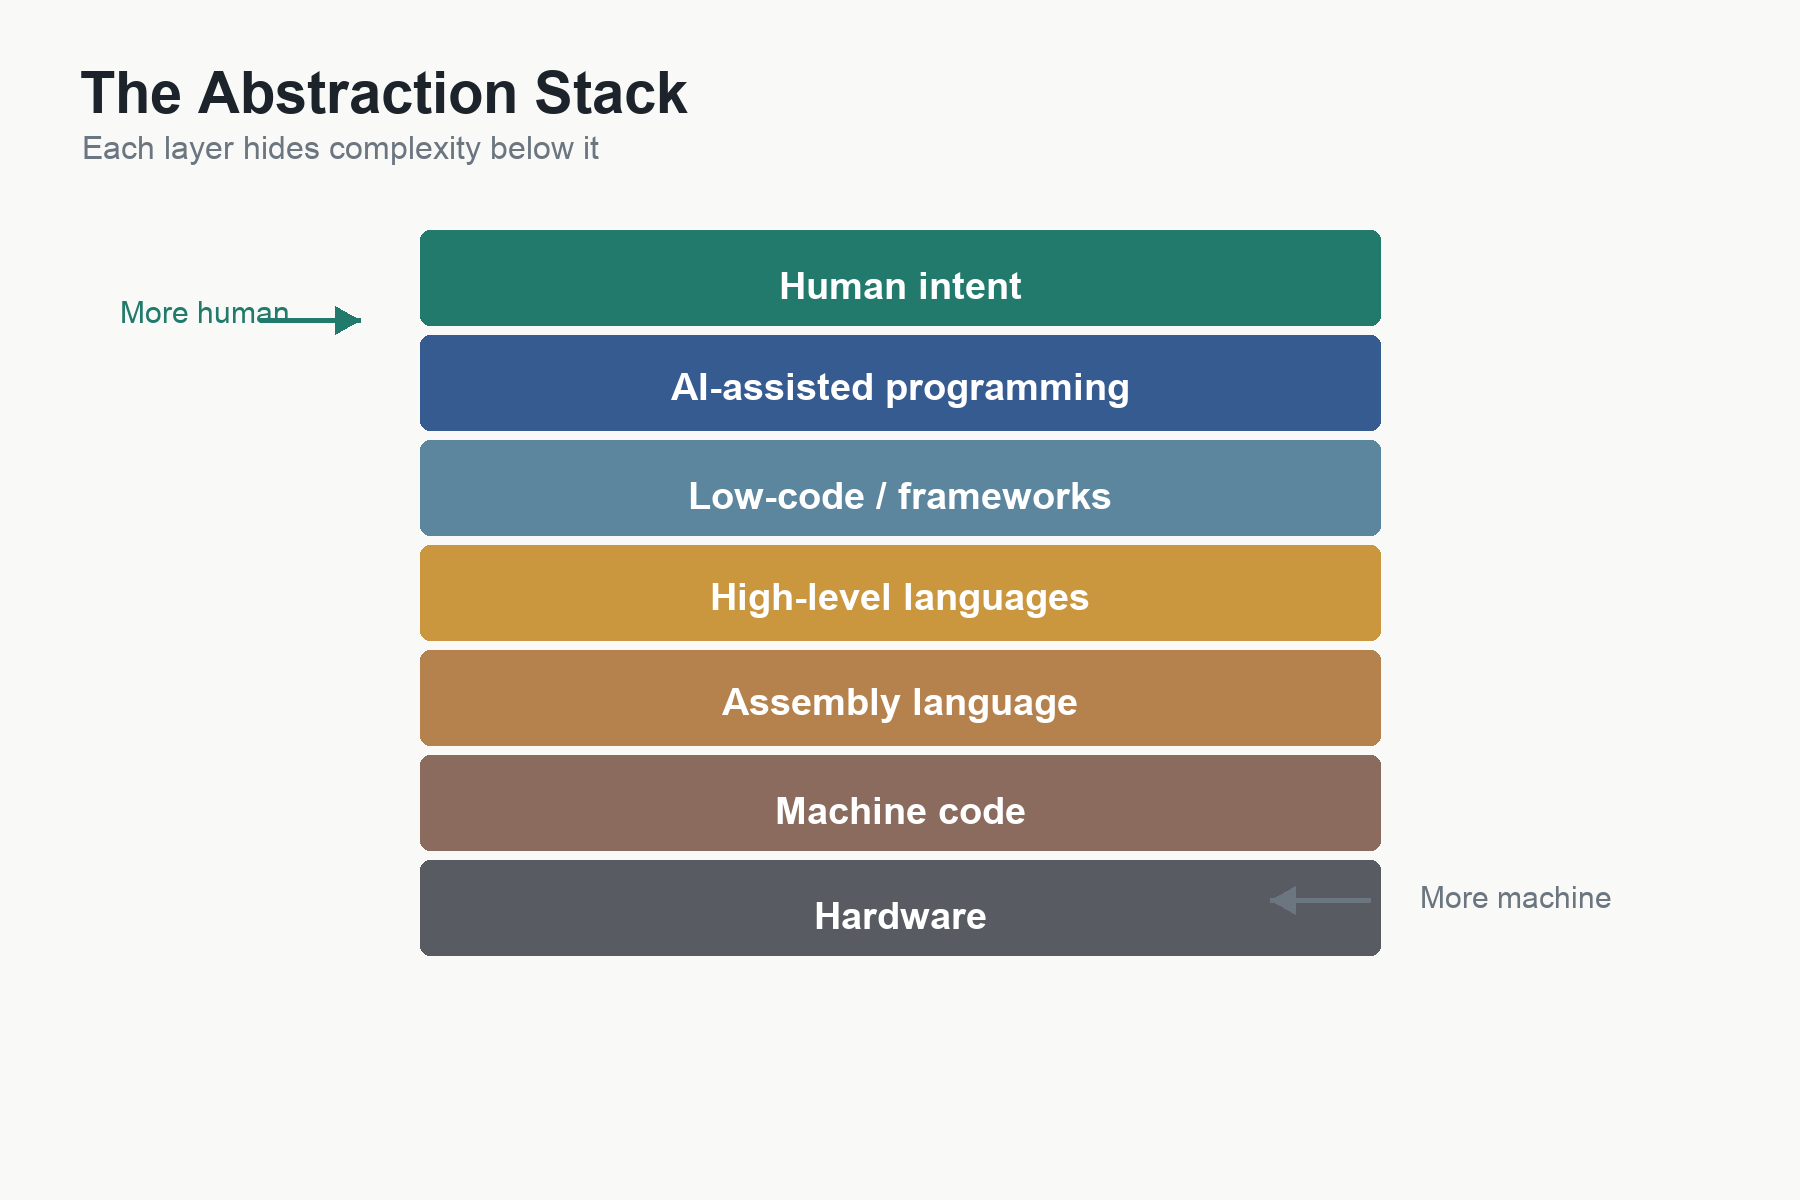
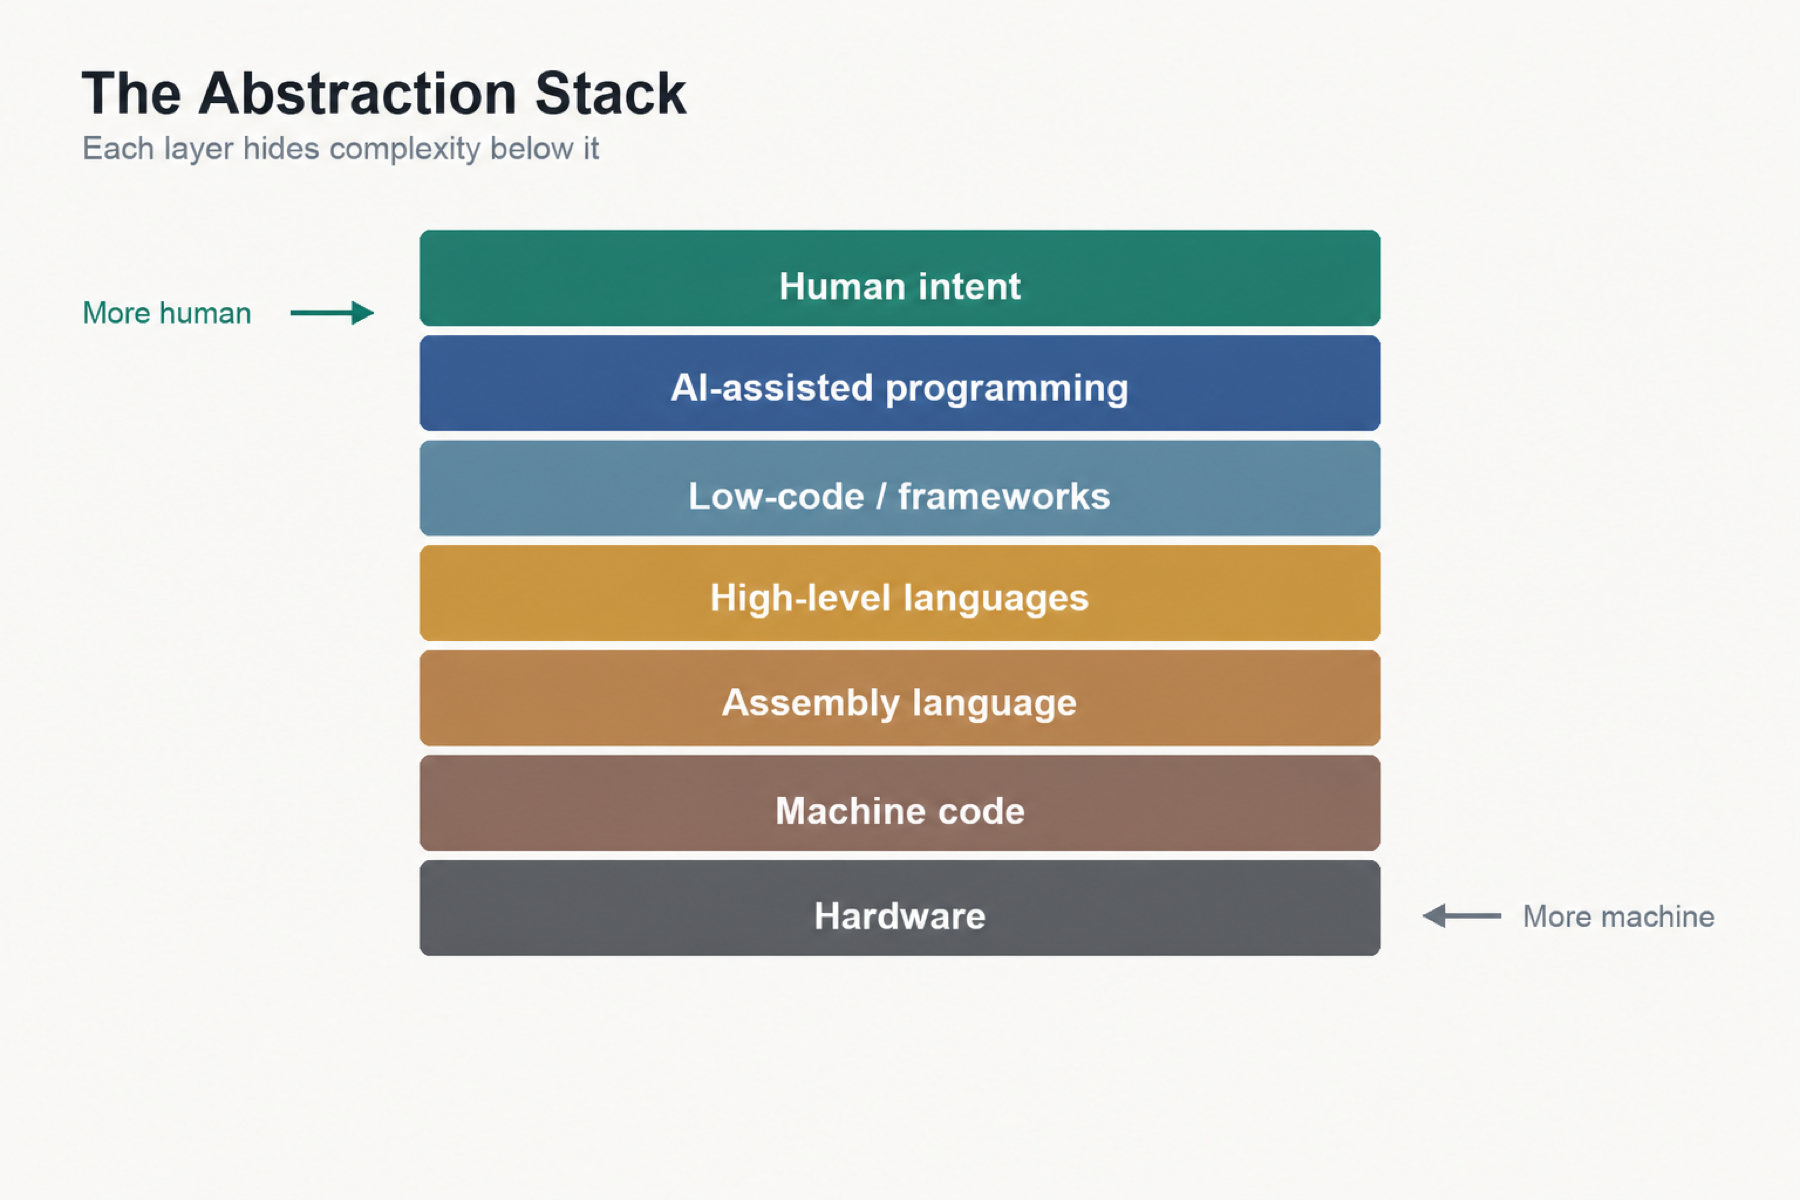
Separate abstraction diagram arrows from labels

diff --git a/content/index.md b/content/index.md
@@ -10,7 +10,7 @@ socialImage: "figures/cover.png"
 
 **Desmond Kwang, written with artificial intelligence**
 
-**Version 1.0.0 · Build 10**
+**Version 1.0.0 · Build 11**
 
 ![Book cover](figures/cover.png)
 